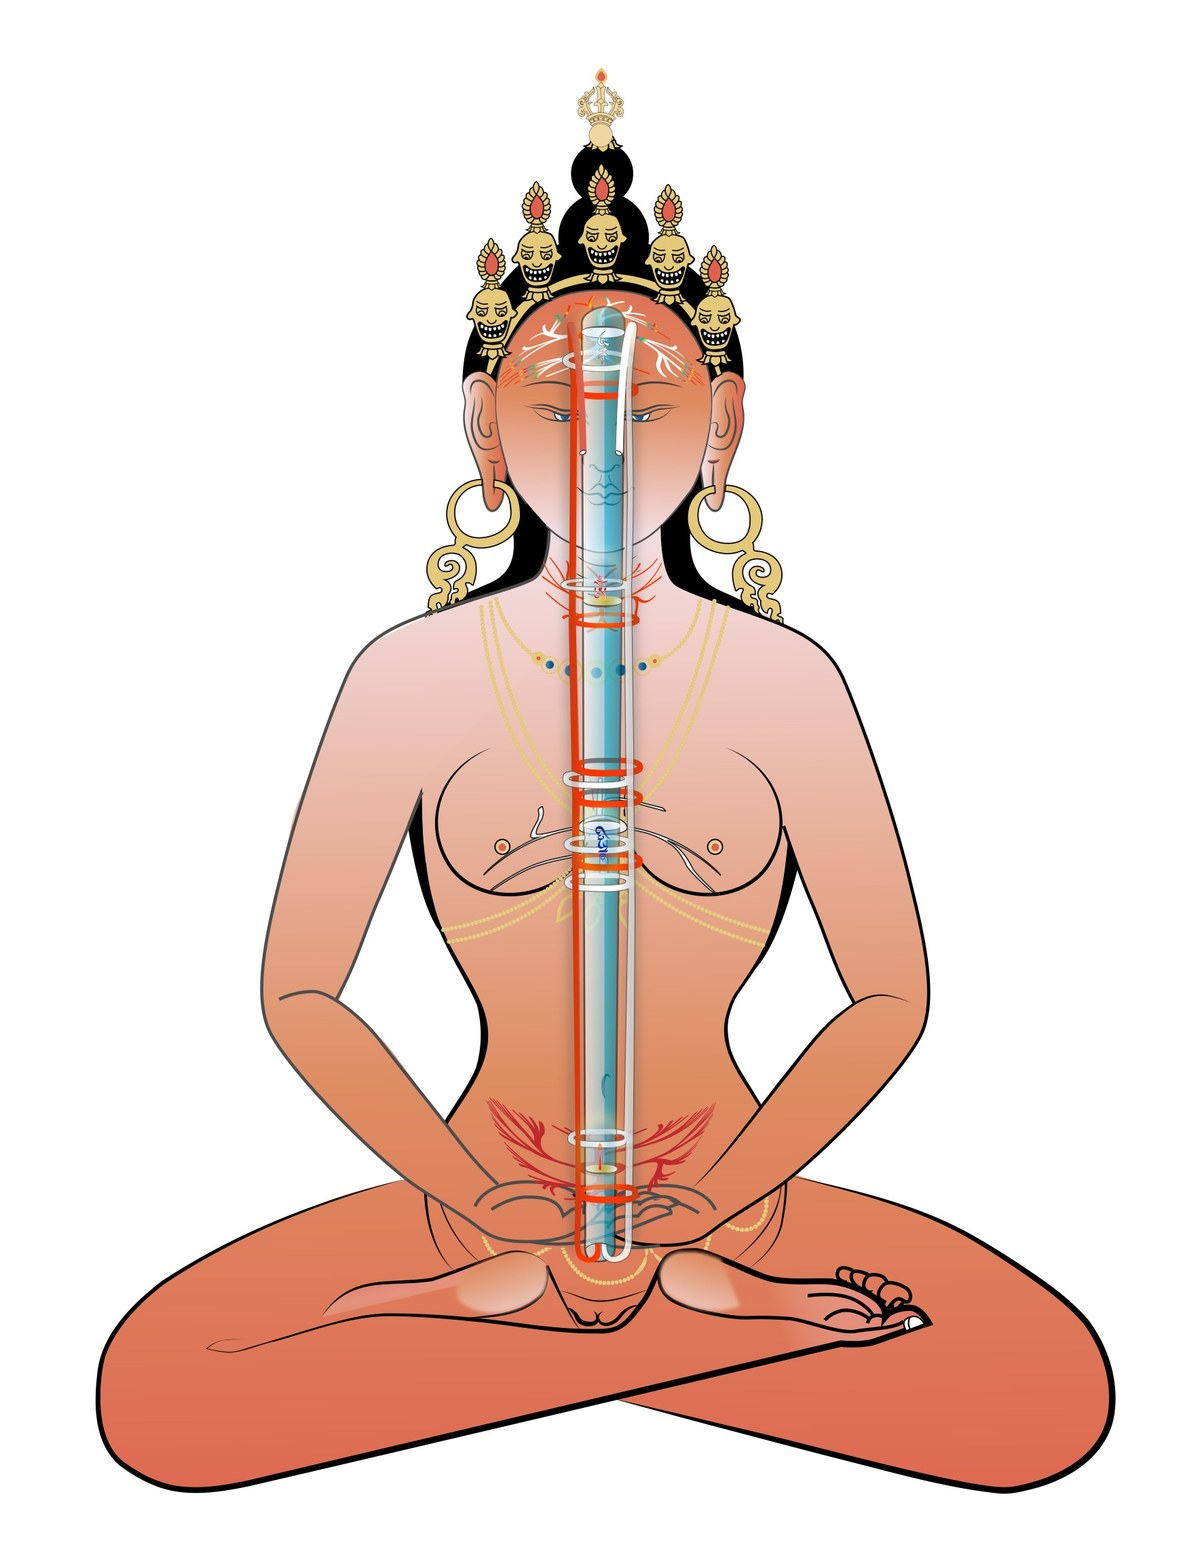
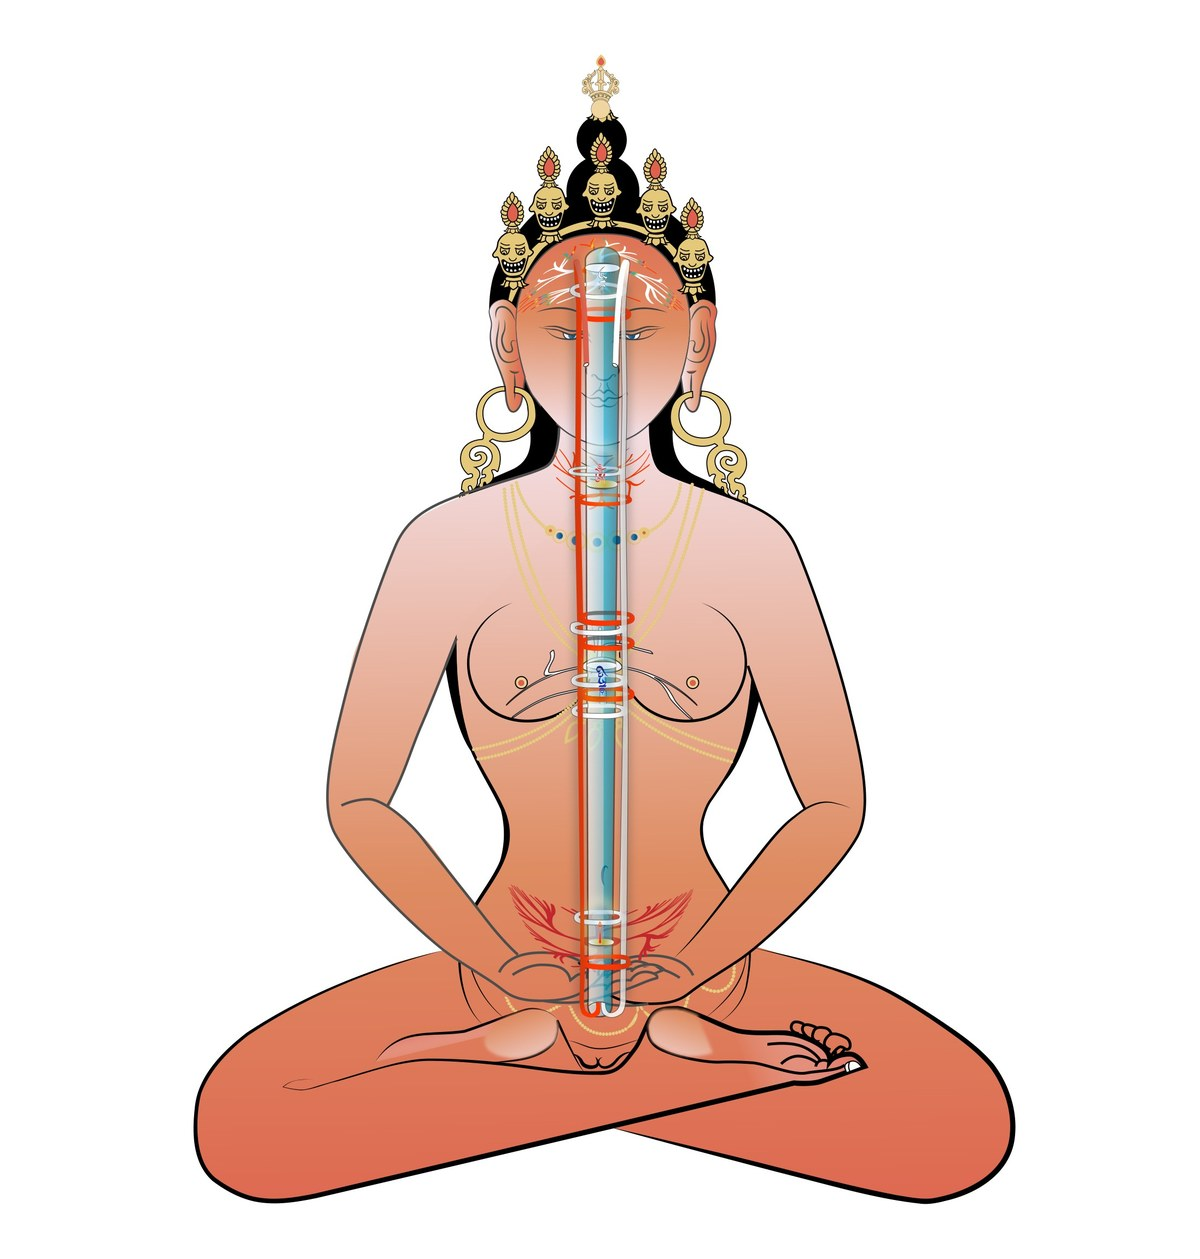
Healing Kundalini page: Vajrayogini figure with 20% white each side, shown at 75% (288px)

Changed region(s): [[0.0617, 0.031, 0.9558, 0.9603]]

diff --git a/src/pages/HealingKundaliniRetreat.tsx b/src/pages/HealingKundaliniRetreat.tsx
@@ -306,7 +306,8 @@ const HealingKundaliniRetreat = () => {
           photo leads, centred title, prose below. */}
       <SectionFrame tone="cream" maxWidth="xl">
         {/* A portrait thangka, so it sits at text width rather than full-bleed. */}
-        <figure className="max-w-sm mx-auto mb-12 md:mb-16">
+        {/* 75% of the tree's half width (max-w-sm = 384px), per Shahaf. */}
+        <figure className="max-w-[288px] mx-auto mb-12 md:mb-16">
           <img
             src={vajrayoginiChannel}
             alt="ואג׳ראיוגיני והערוץ המרכזי"
